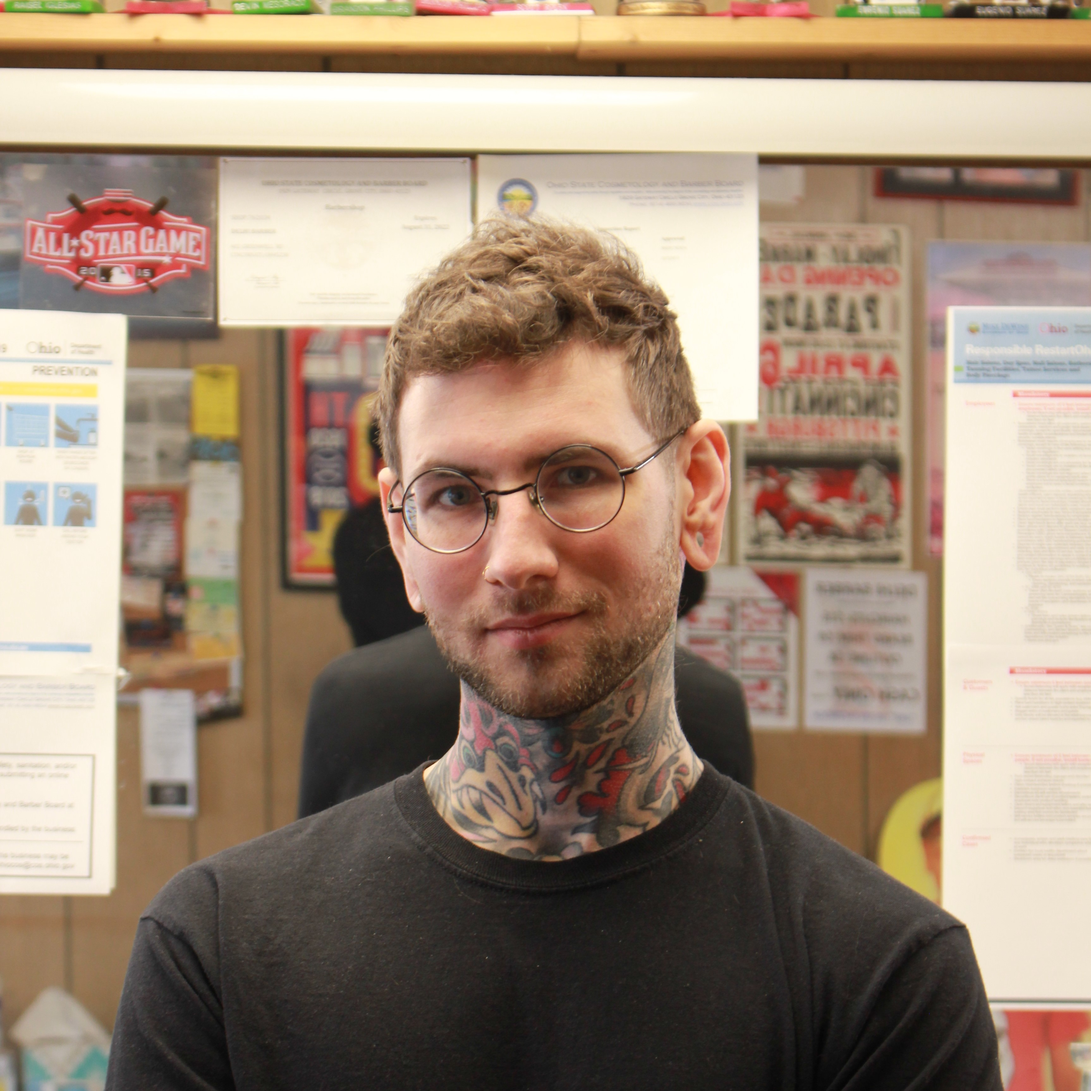
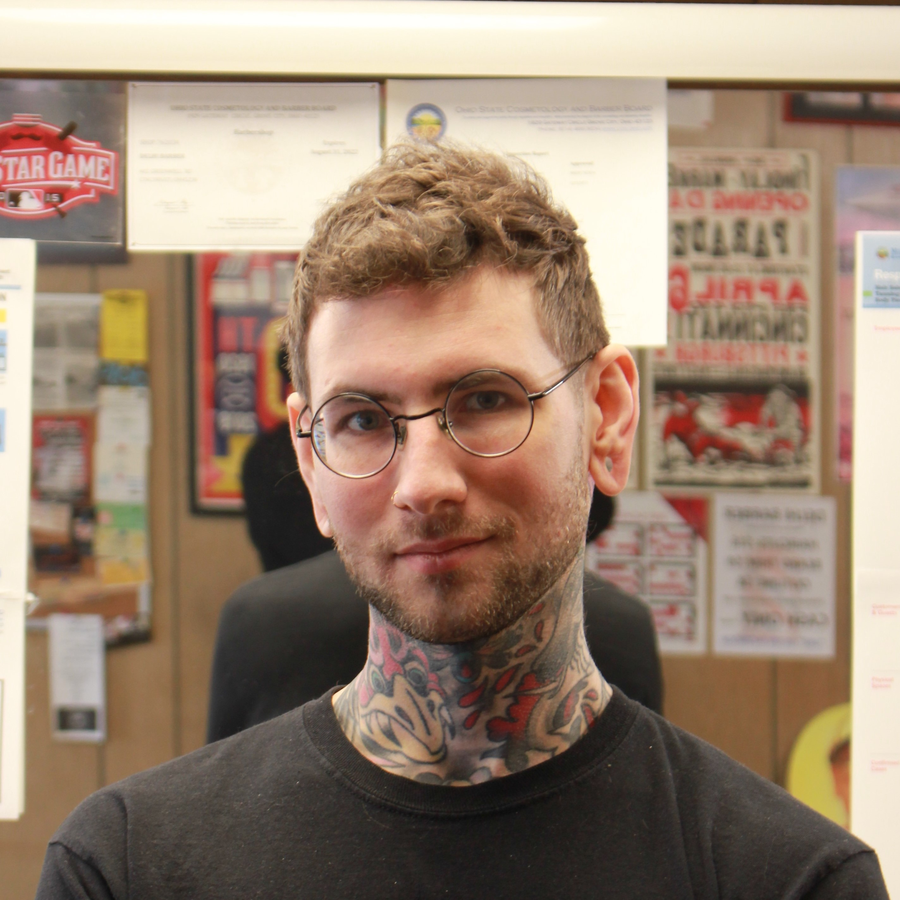
add Vic's bio, resize max's image, add no walk-in message after hours, and comment out Max's bio

diff --git a/index.html b/index.html
@@ -88,7 +88,7 @@
               <h2>Welcome to Delhi Barbers!</h2>
               <hr class="d-md-none">
               <h4>Walk in anytime; no appointment needed!</h4><br>
-              <p>Victor Fabro, Owner and Max Sheppard invite you to experience and enjoy a family-friendly
+              <p>Victor Fabro and Max Sheppard invite you to experience and enjoy a family-friendly
                 barbershop.</p>
               <p>Men, women, and children of all ages are welcome.</p>
             </div>
@@ -113,8 +113,15 @@
             <div class="container text-left bio-container">
               <h2>Victor Fabro</h2>
               <h4>Owner</h4><br>
-              <p>[Sample Text]</p>
-              <p>[Sample Text]</p>
+              <p>
+                Victor was born and raised in Columbus and moved to Cincinnati in 1985.
+                After retiring from his career at AT&T, he graduated from the Cincinnati
+                School of Barbering in 2006, opening Delhi Barbers in April of 2008.
+              </p>
+              <p>
+                He loves barbering, and would like to train a new barber for his chair
+                when he slows down in a few years.
+              </p>
             </div>
           </div>
         </div>
@@ -134,8 +141,8 @@
             <div class="container text-right bio-container">
               <h2>Max Sheppard</h2>
               <h4>Barber</h4><br>
-              <p>[Sample Text]</p>
-              <p>[Sample Text]</p>
+              <!-- <p>[Sample Text]</p>
+              <p>[Sample Text]</p> -->
             </div>
           </div>
         </div>

diff --git a/js/templates.js b/js/templates.js
@@ -123,6 +123,12 @@ class FooterTemplate extends HTMLElement {
                 Closed Sunday and Monday
               </p></div>
             </div>
+            <br>
+            <div class="row">
+              <div class="col pl-0 mb-0 pr-0"><p>
+                <strong>WE DO NOT ACCEPT WALK-INS 1/2 HOUR BEFORE CLOSE</strong>
+              </p></div>
+            </div>
           </div>
 
         </div>
